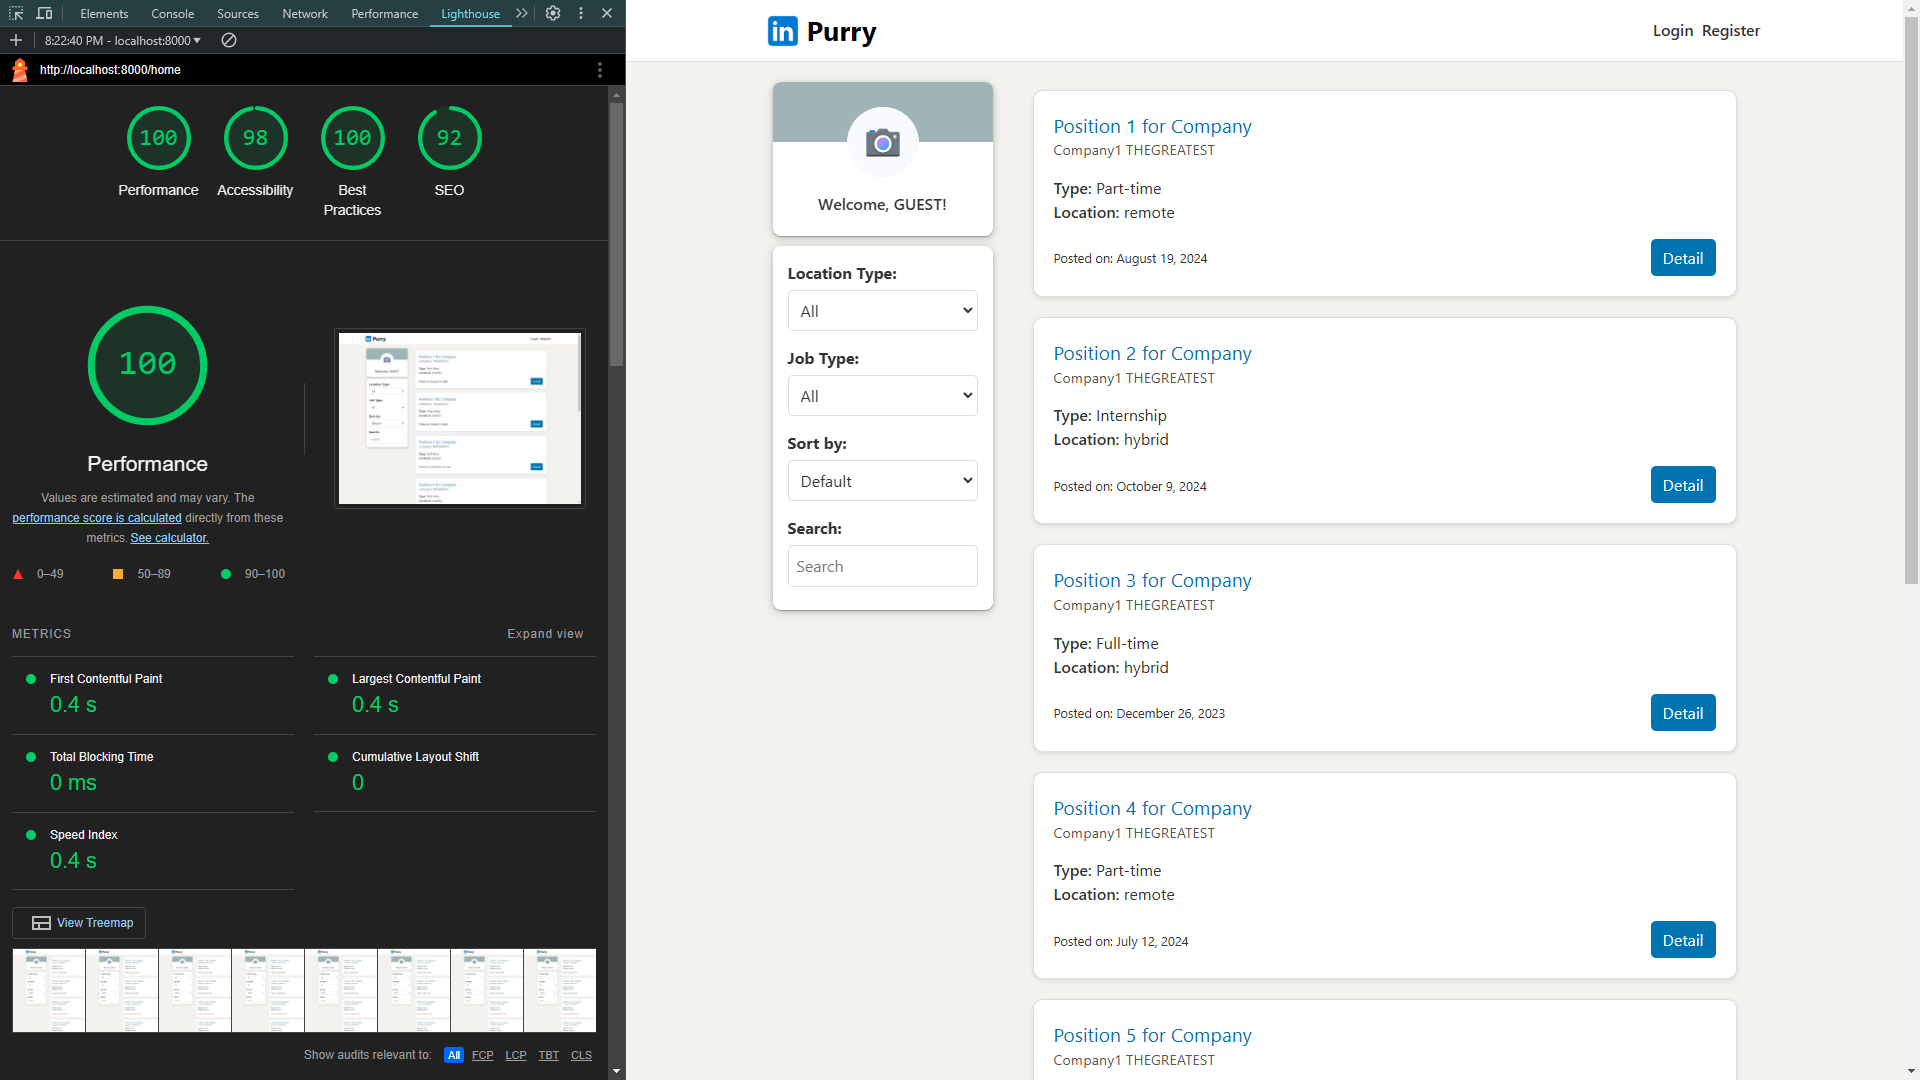
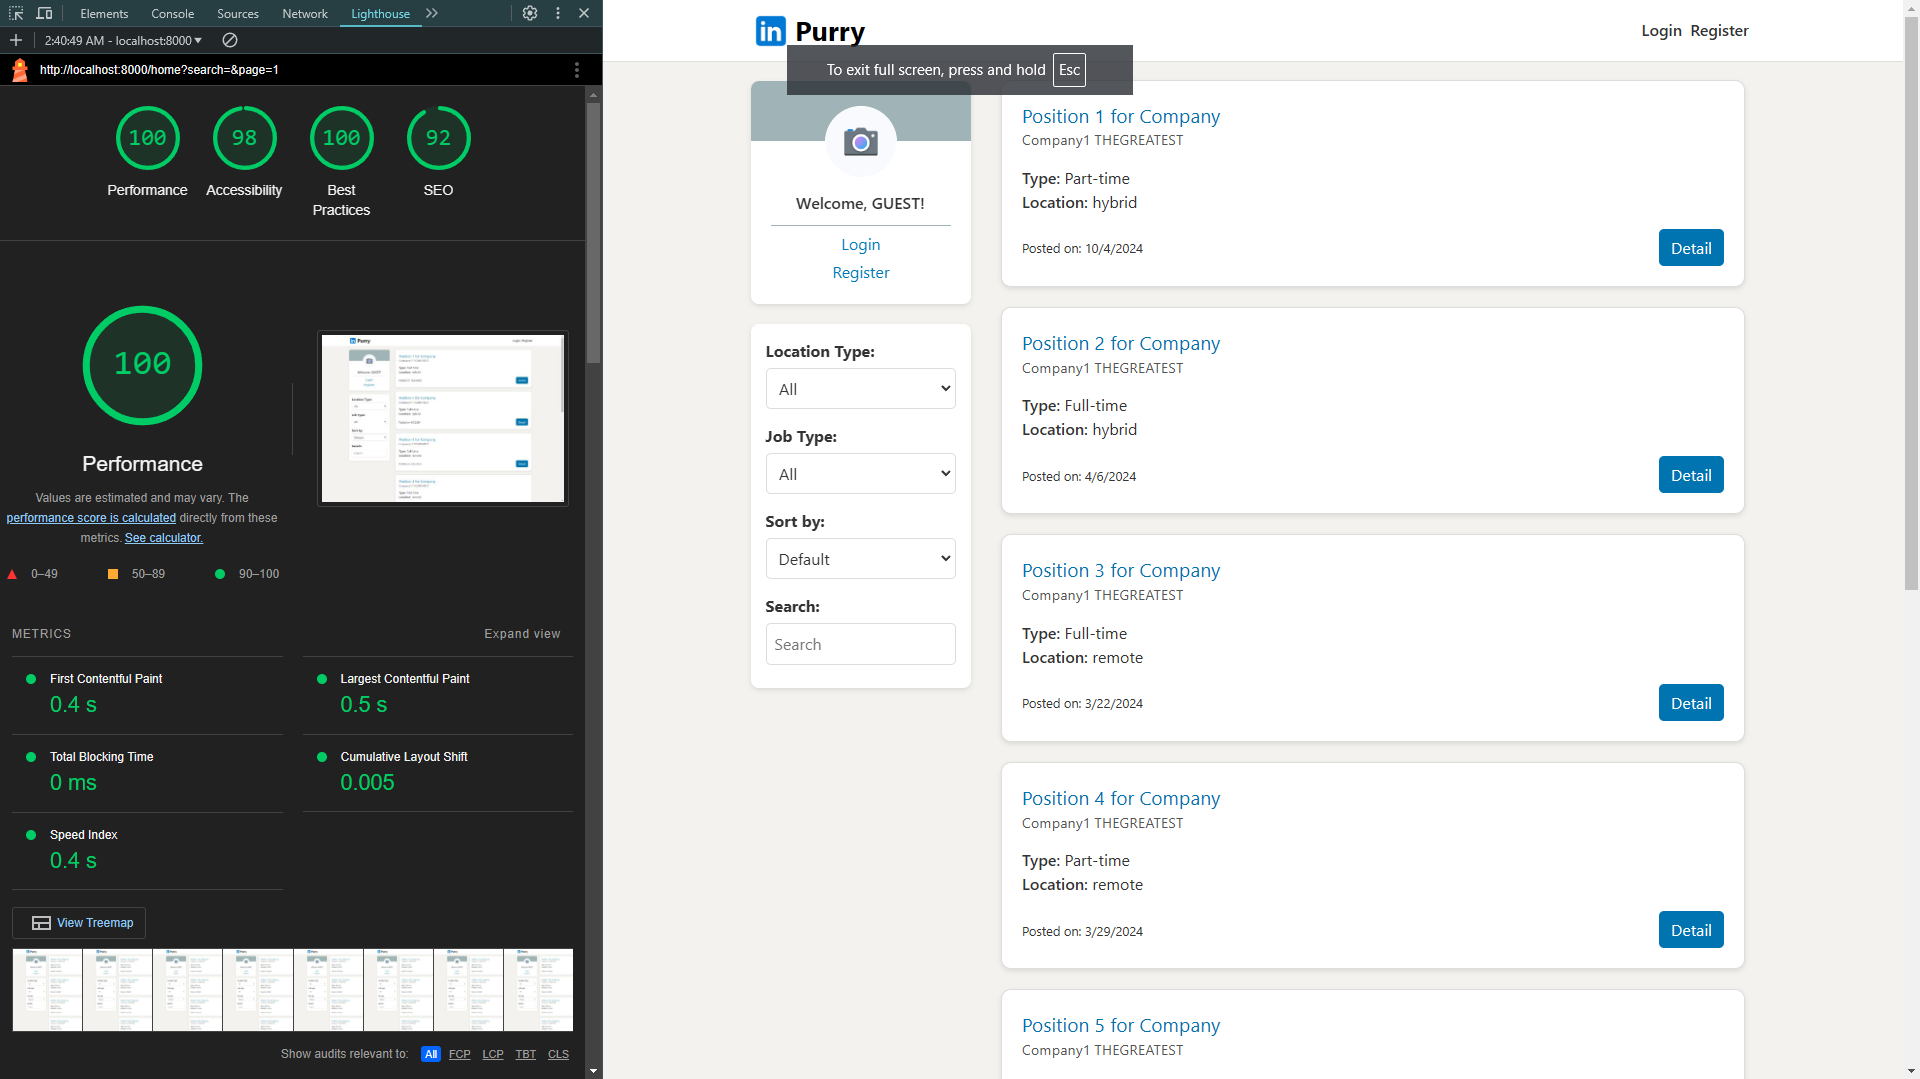
fix: css style

diff --git a/php/src/public/css/pages/jobseeker.css b/php/src/public/css/pages/jobseeker.css
@@ -10,7 +10,7 @@
     display: grid;
     grid-template-columns: 220px 1fr;
     gap: 20px;
-    padding: 20px;
+    padding: 10px;
 }
 
 /* Style for the aside section */
@@ -21,8 +21,7 @@
     display: flex;
     flex-direction: column;
     align-items: center;
-    gap: 10px;
-
+    gap: 20px;
 }
 
 .sidebar-item {
@@ -58,10 +57,11 @@
 .sidebar-item nav {
     border-top: 1px #A0B4B7 solid;
     margin: 0px 20px 20px 20px;
-    padding-top: 10px;
+    padding-top: 6px;
     display: flex;
     align-items: center;
     flex-direction: column;
+    gap: 4px;
 }
 
 .sidebar-item nav a {
@@ -79,7 +79,7 @@
 /* Style for the main content */
 .main-content {
     background-color: inherit;
-    padding: 8px 20px 8px 20px;
+    padding: 8px 10px 8px 10px;
     border-radius: 8px;
 }
 
@@ -93,7 +93,7 @@
         order: 1;
         position:static;
         top: 0;
-        padding: 20px;
+        padding: 10px;
     }
 
     .main-content {

diff --git a/php/src/public/css/global.css b/php/src/public/css/global.css
@@ -127,7 +127,7 @@ a.link:hover {
 }
 
 .shadow-5 {
-    box-shadow: rgba(0, 0, 0, 0.25) 0px 0.0625em 0.0625em, rgba(0, 0, 0, 0.25) 0px 0.125em 0.5em, rgba(255, 255, 255, 0.1) 0px 0px 0px 1px inset;
+    box-shadow: 0 2px 5px rgba(0, 0, 0, 0.1);
 }
 
 @keyframes spin {

diff --git a/php/src/public/css/pages/jobapplication.css b/php/src/public/css/pages/jobapplication.css
@@ -3,6 +3,7 @@
     justify-content: center;
     align-items: center;
     flex-direction: column;
+    padding: 10px;
 }
 
 .back-button {

diff --git a/php/src/pages/home/JobseekerHomePage.php b/php/src/pages/home/JobseekerHomePage.php
@@ -15,7 +15,18 @@
                     <p>Welcome, <?= isset($name) ? htmlspecialchars($name) : 'GUEST' ?>!</p>
                 </div>
                 <nav>
-                    <a href="http://localhost:8000/history">Application History</a>
+                    <?
+                    if (isset($name)) {
+                        ?>
+                        <a href="http://localhost:8000/history">Application History</a>
+                        <?
+                    } else {
+                        ?>
+                        <a href="http://localhost:8000/user/login">Login</a>
+                        <a href="http://localhost:8000/user/register">Register</a>
+                    <?
+                    }
+                    ?>
                 </nav>
             </div>
             <div class="sidebar-item shadow-5">
